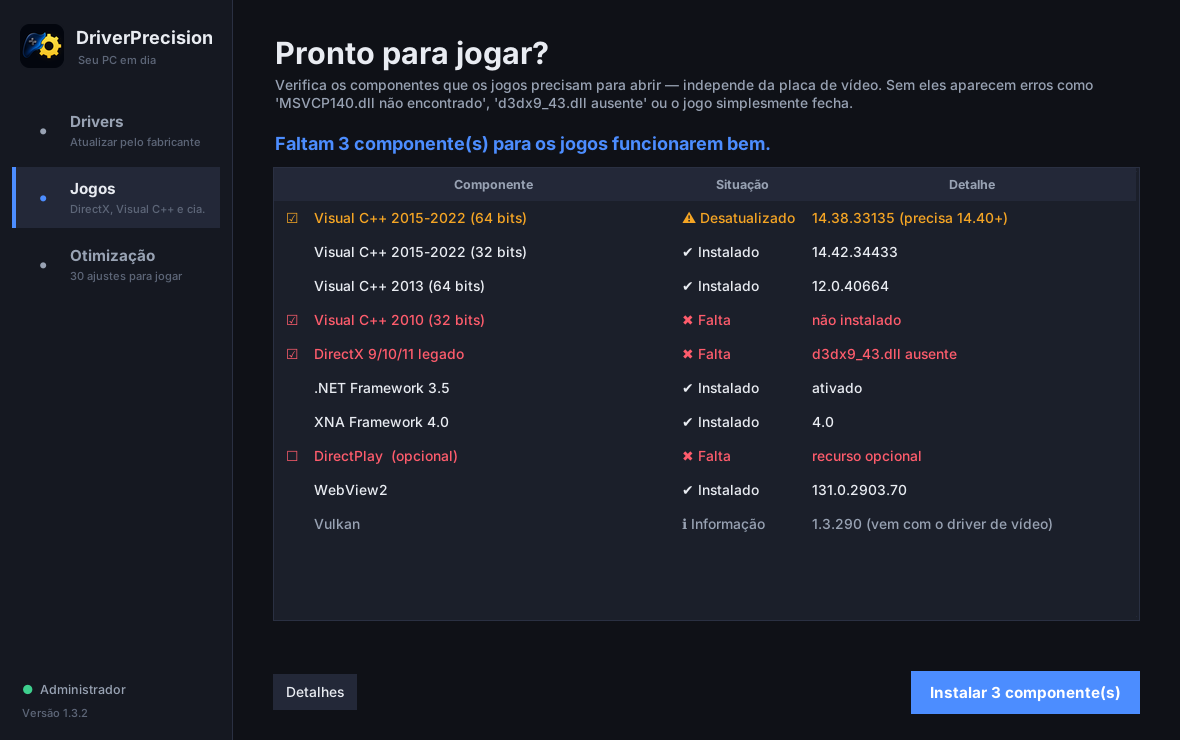
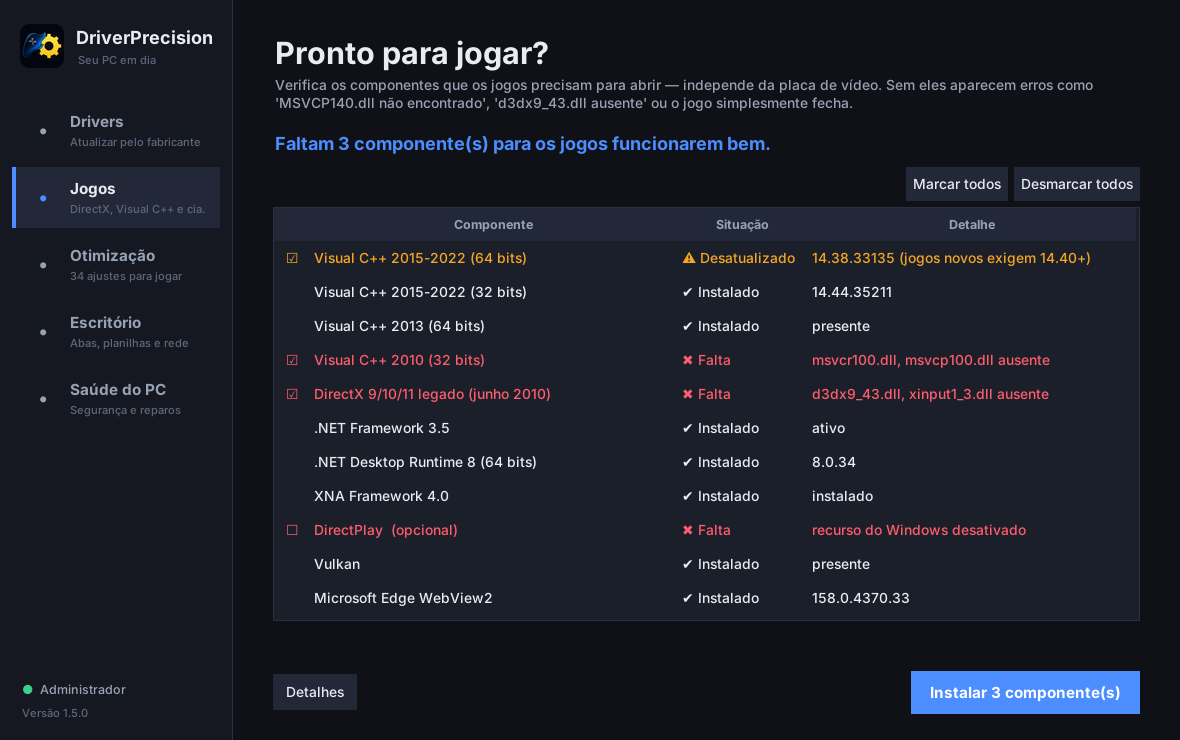
v1.5.0: drivers NVIDIA direto do site oficial; imagens atualizadas
Mesmo código validado em Windows real (Server 2022 e 2025) sem nenhuma
falha no commit 5a588ba (inclui consulta ao vivo de 5 placas GeForce,
download de 1 GB e assinatura da NVIDIA). Imagens do README refeitas
com as cinco telas atuais. Créditos editados à mão mantidos.

Claude-Session: https://claude.ai/code/session_01LPHYJRpsxwZR1Z3kh4uJqA

diff --git a/driverprecision.py b/driverprecision.py
@@ -39,7 +39,7 @@ import urllib.request
 import xml.etree.ElementTree as ET
 from pathlib import Path
 
-VERSION = "1.4.5"
+VERSION = "1.5.0"
 UA = "Mozilla/5.0 (Windows NT 10.0; Win64; x64) DriverPrecision/" + VERSION
 BASE = Path(os.environ.get("LOCALAPPDATA", Path.home())) / "DriverPrecision"
 CACHE = BASE / "cache"
